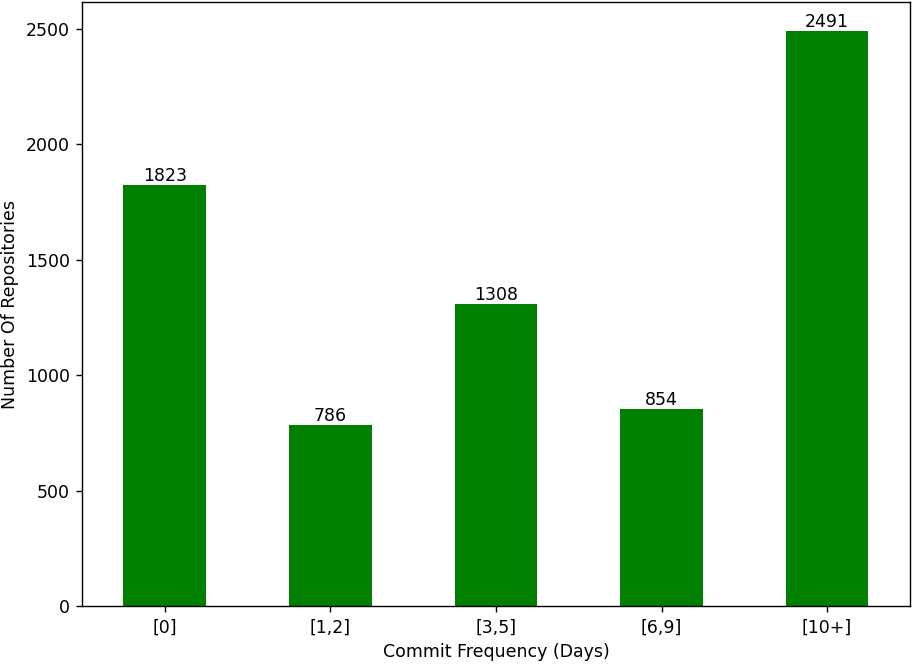
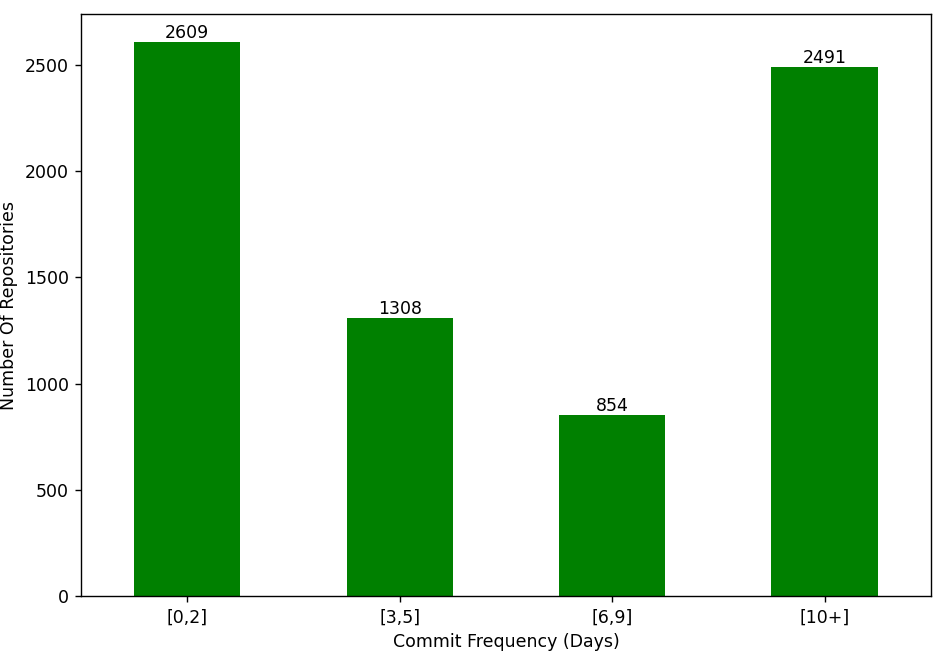
q4&q5

Changed region(s): [[0.0, 0.0, 1.0, 1.0]]

diff --git a/Queries/Analysis/Q5/Q5_BarChart.py b/Queries/Analysis/Q5/Q5_BarChart.py
@@ -9,11 +9,11 @@ dfCsv = pd.DataFrame(csvFile)
 
 modifiedFilesDf = dfCsv["CommitFrequency (days)"].dropna().to_numpy()
 
-barChartData = pd.cut(modifiedFilesDf, [0,1,2,5,9,np.inf], labels=['[0]','[1,2]','[3,5]','[6,9]','[10+]'])
+barChartData = pd.cut(modifiedFilesDf, [0,2,5,9,np.inf], labels=['[0,2]','[3,5]','[6,9]','[10+]'])
 barChart = barChartData.value_counts().plot.bar(color="green")
 
 plt.xticks(rotation=0)
-plt.title("Average Frequency Of Commitments For Repository")
+#plt.title("Average Frequency Of Commitments For Repository")
 plt.xlabel('Commit Frequency (Days)') 
 plt.ylabel('Number Of Repositories')
 

diff --git a/Queries/Analysis/Q4/Q4_BarChart.py b/Queries/Analysis/Q4/Q4_BarChart.py
@@ -9,13 +9,13 @@ dfCsv = pd.DataFrame(csvFile)
 
 modifiedFilesDf = dfCsv["NumOfModifiedFiles"].dropna().to_numpy()
 
-barChartData = pd.cut(modifiedFilesDf, [0,1,3,6,10,np.inf], labels=['0','1-2','3-5','6-9','10+'])
+barChartData = pd.cut(modifiedFilesDf, [0,3,6,10,np.inf], labels=['0-2','3-5','6-9','10+'])
 barChart = barChartData.value_counts().plot.bar(color="green")
 
 plt.xticks(rotation=0)
 plt.title("Distribution of Modified Files by Commit")
 plt.xlabel('Number Of Modified Files')
-plt.ylabel('Number Of Commit') 
+plt.ylabel('Number Of Commit')
 
 barChart.bar_label(barChart.containers[0])
 
